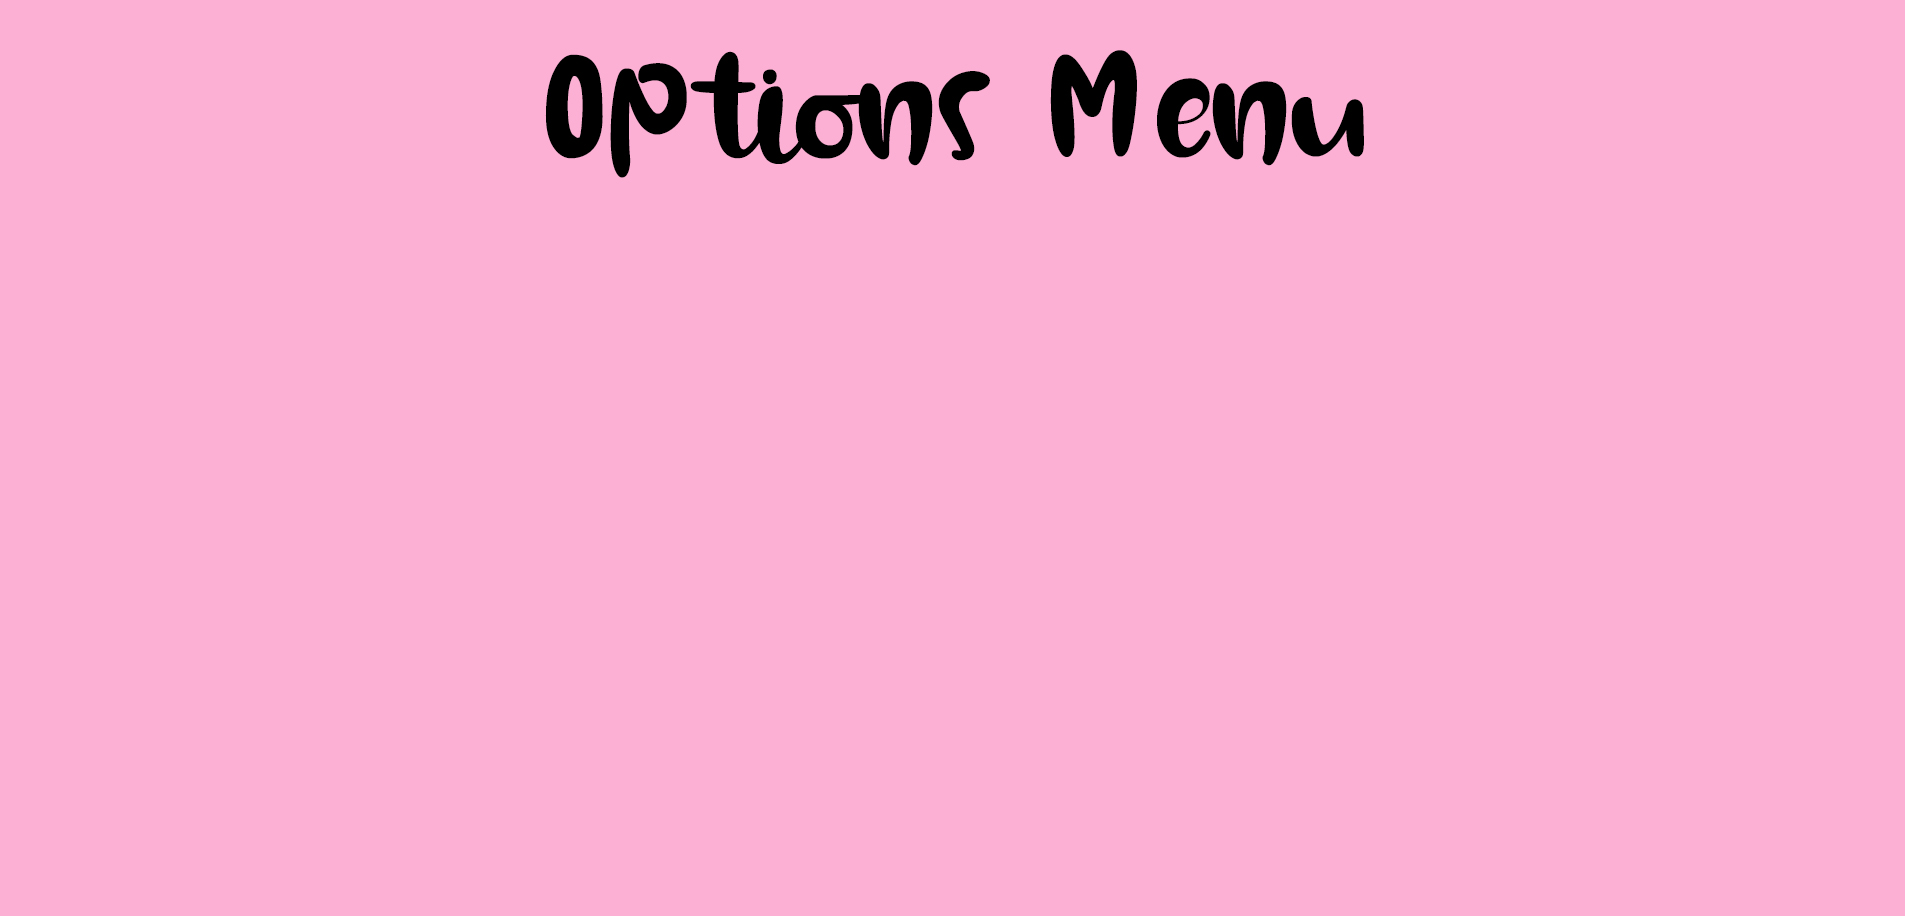
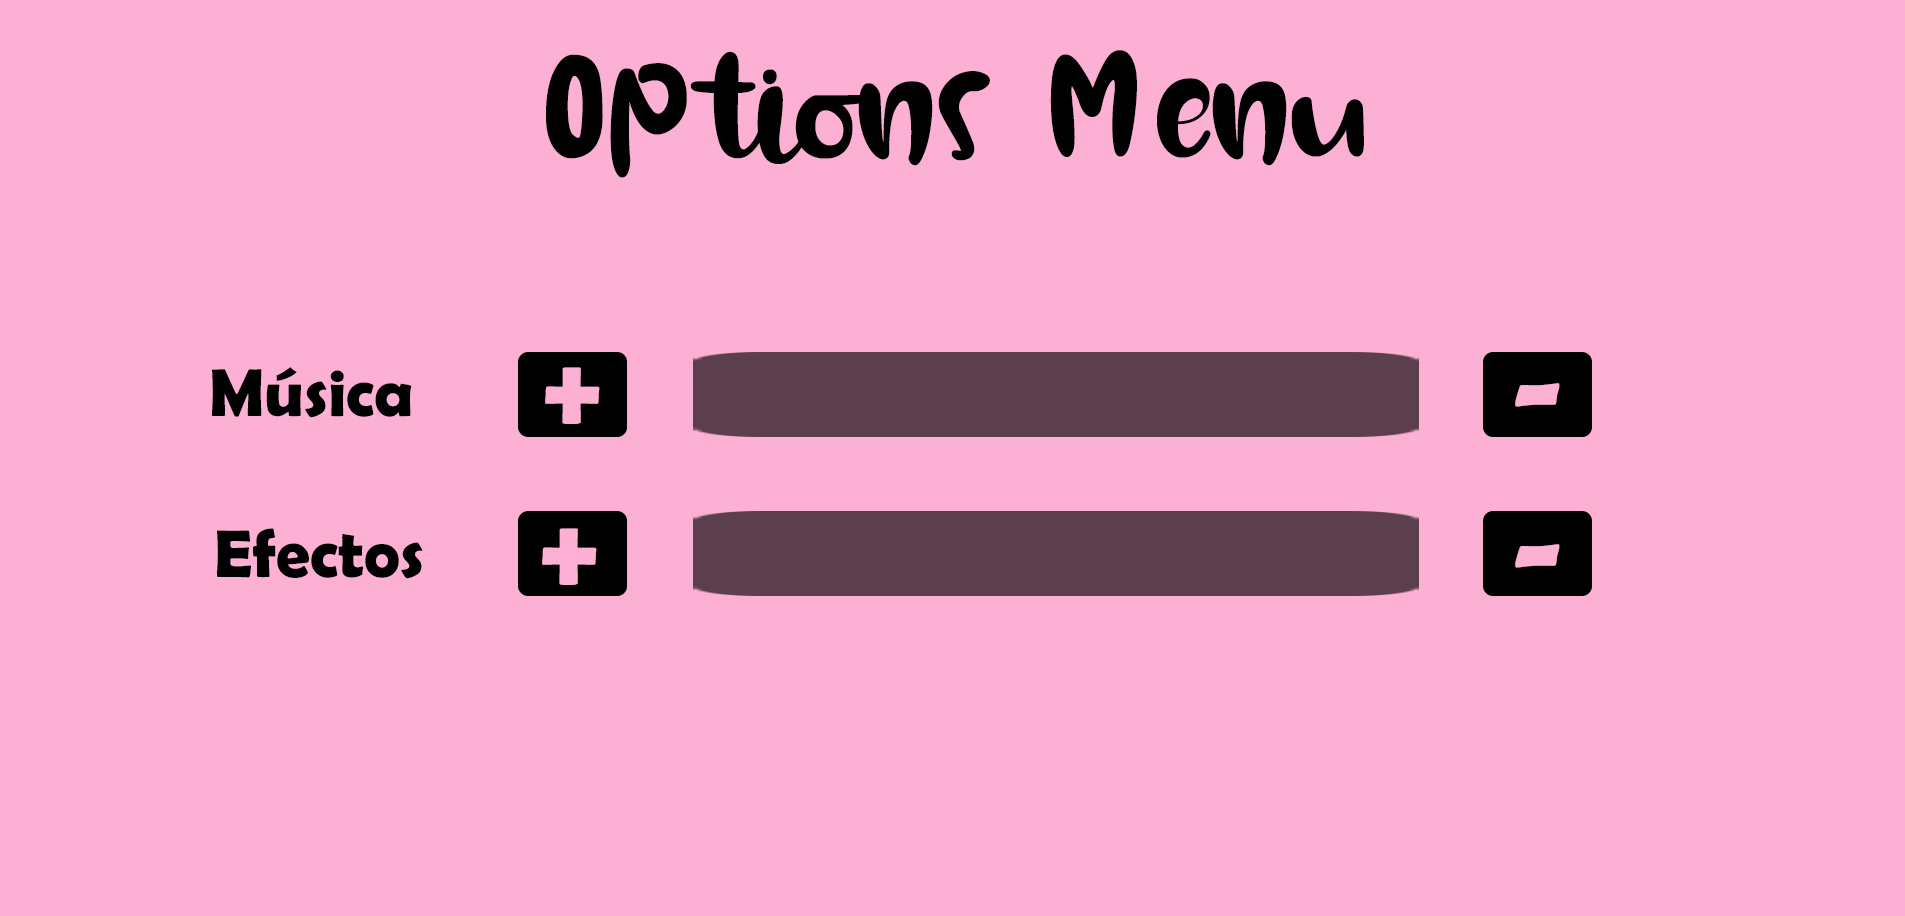
arreglo options y assets tienda

diff --git a/ProyectoArmadillo/JS/OptionsMenu.js b/ProyectoArmadillo/JS/OptionsMenu.js
@@ -17,6 +17,32 @@ class OptionsMenu extends Phaser.Scene{
     background.setScale(2/3);
     background.setPosition(wid/2, heig/2);
 
+
+    //BOTON SUBIR VOLUMEN
+    //MUSICA
+    this.musicUpButton = this.add.image(wid*4.8/16, heig*6.8/16, 'VolumeUpButtonOM');
+    this.musicUpButton.setScale(2/3);
+    this.musicUpButton.setInteractive({ useHandCursor: true  } )
+    .on('pointerdown', () => this.SubirMusica());
+    //EFECTOS
+    this.effectsUpButton = this.add.image(wid*4.8/16, heig*9.7/16, 'VolumeUpButtonOM');
+    this.effectsUpButton.setScale(2/3);
+    this.effectsUpButton.setInteractive({ useHandCursor: true  } )
+    .on('pointerdown', () => this.SubirEfectos());
+
+    //BOTON BAJAR VOLUMEN
+    //MUSICA
+    this.musicDownButton = this.add.image(wid*12.9/16, heig*6.85/16, 'VolumeDownButtonOM');
+    this.musicDownButton.setScale(2/3);
+    this.musicDownButton.setInteractive({ useHandCursor: true  } )
+    .on('pointerdown', () => this.BajarMusica());
+    //EFECTOS
+    this.effectsDownButton = this.add.image(wid*12.9/16, heig*9.7/16, 'VolumeDownButtonOM');
+    this.effectsDownButton.setScale(2/3);
+    this.effectsDownButton.setInteractive({ useHandCursor: true  } )
+    .on('pointerdown', () => this.BajarEfectos());
+
+
     //BOTON ATRAS
     this.backButtonOM = this.add.image(wid*14/16, heig*14/16, 'backButtonOM');
     this.backButtonOM.setScale(1.5/3);

diff --git a/ProyectoArmadillo/JS/PreloadMenu.js b/ProyectoArmadillo/JS/PreloadMenu.js
@@ -60,6 +60,8 @@ class PreloadMenu extends Phaser.Scene{
     //Options Menu
       this.load.image('backgroundOM', './ASSETS/OptionsMenu/OptionsMenuBackground.jpg');
       this.load.image('backButtonOM', './ASSETS/OptionsMenu/BotonSalir.png');
+      this.load.image('VolumeUpButtonOM', './ASSETS/OptionsMenu/BotonSubirVolumen.png');
+      this.load.image('VolumeDownButtonOM', './ASSETS/OptionsMenu/BotonBajarVolumen.png');
 
     //Credits Menu
       this.load.image('backgroundCM', './ASSETS/MapSelectionMenu/MapMenuBackground.jpeg'); //CAMBIAR
